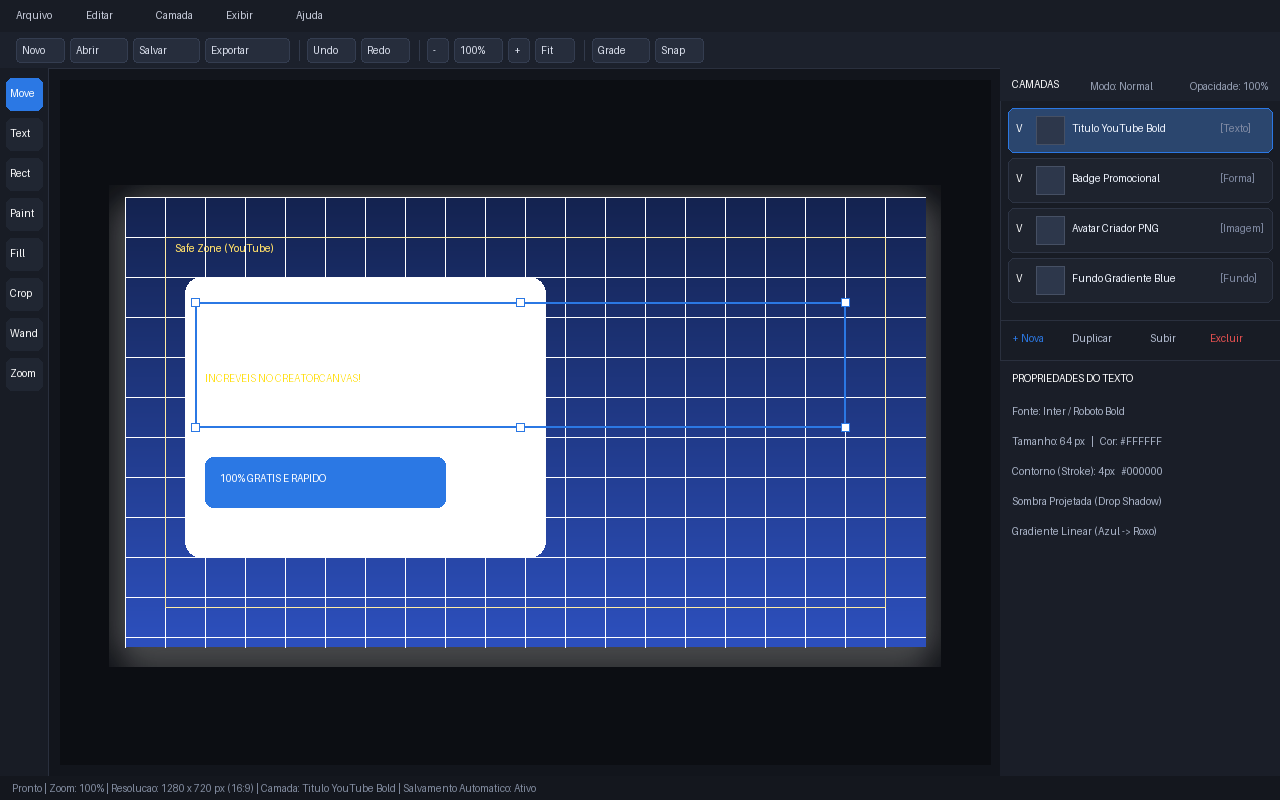
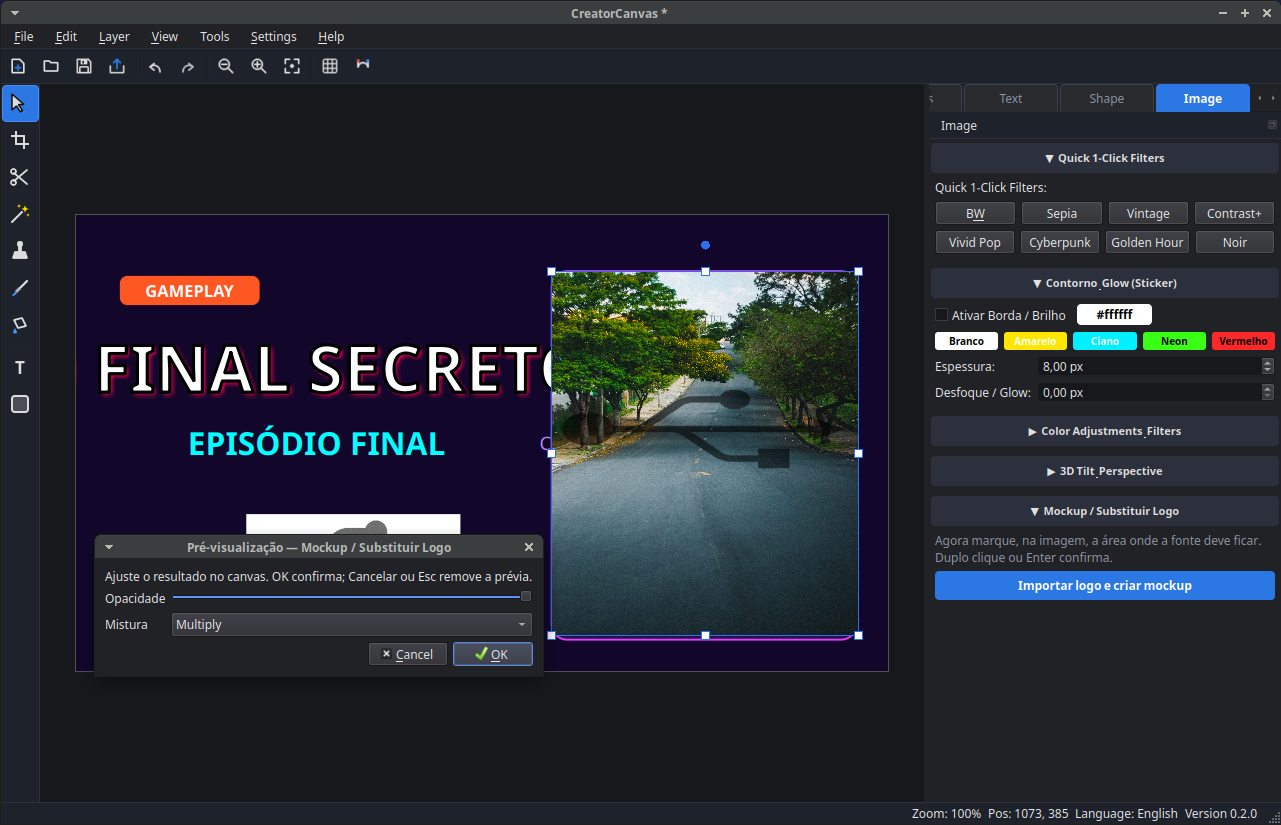
Refresh README screenshots with real editor captures

diff --git a/README.md b/README.md
@@ -14,6 +14,18 @@ A fast, layer-based image editor designed specifically for digital content creat
 
 <br/>
 
+![CreatorCanvas Mockup Preview](docs/images/mockup_layers.png)
+
+*Mockup workflow: existing canvas images can be used as the source for a perspective replacement.*
+
+<br/>
+
+![CreatorCanvas Free Mockup Selection](docs/images/mockup_selection.png)
+
+*Free-form selection over the canvas with live perspective placement and preview controls.*
+
+<br/>
+
 ![CreatorCanvas Start Screen](docs/images/start_screen.png)
 
 *Welcome & Start Screen: Preset cards for YouTube/Instagram/TikTok, ready-to-edit templates, and recent project thumbnails.*
